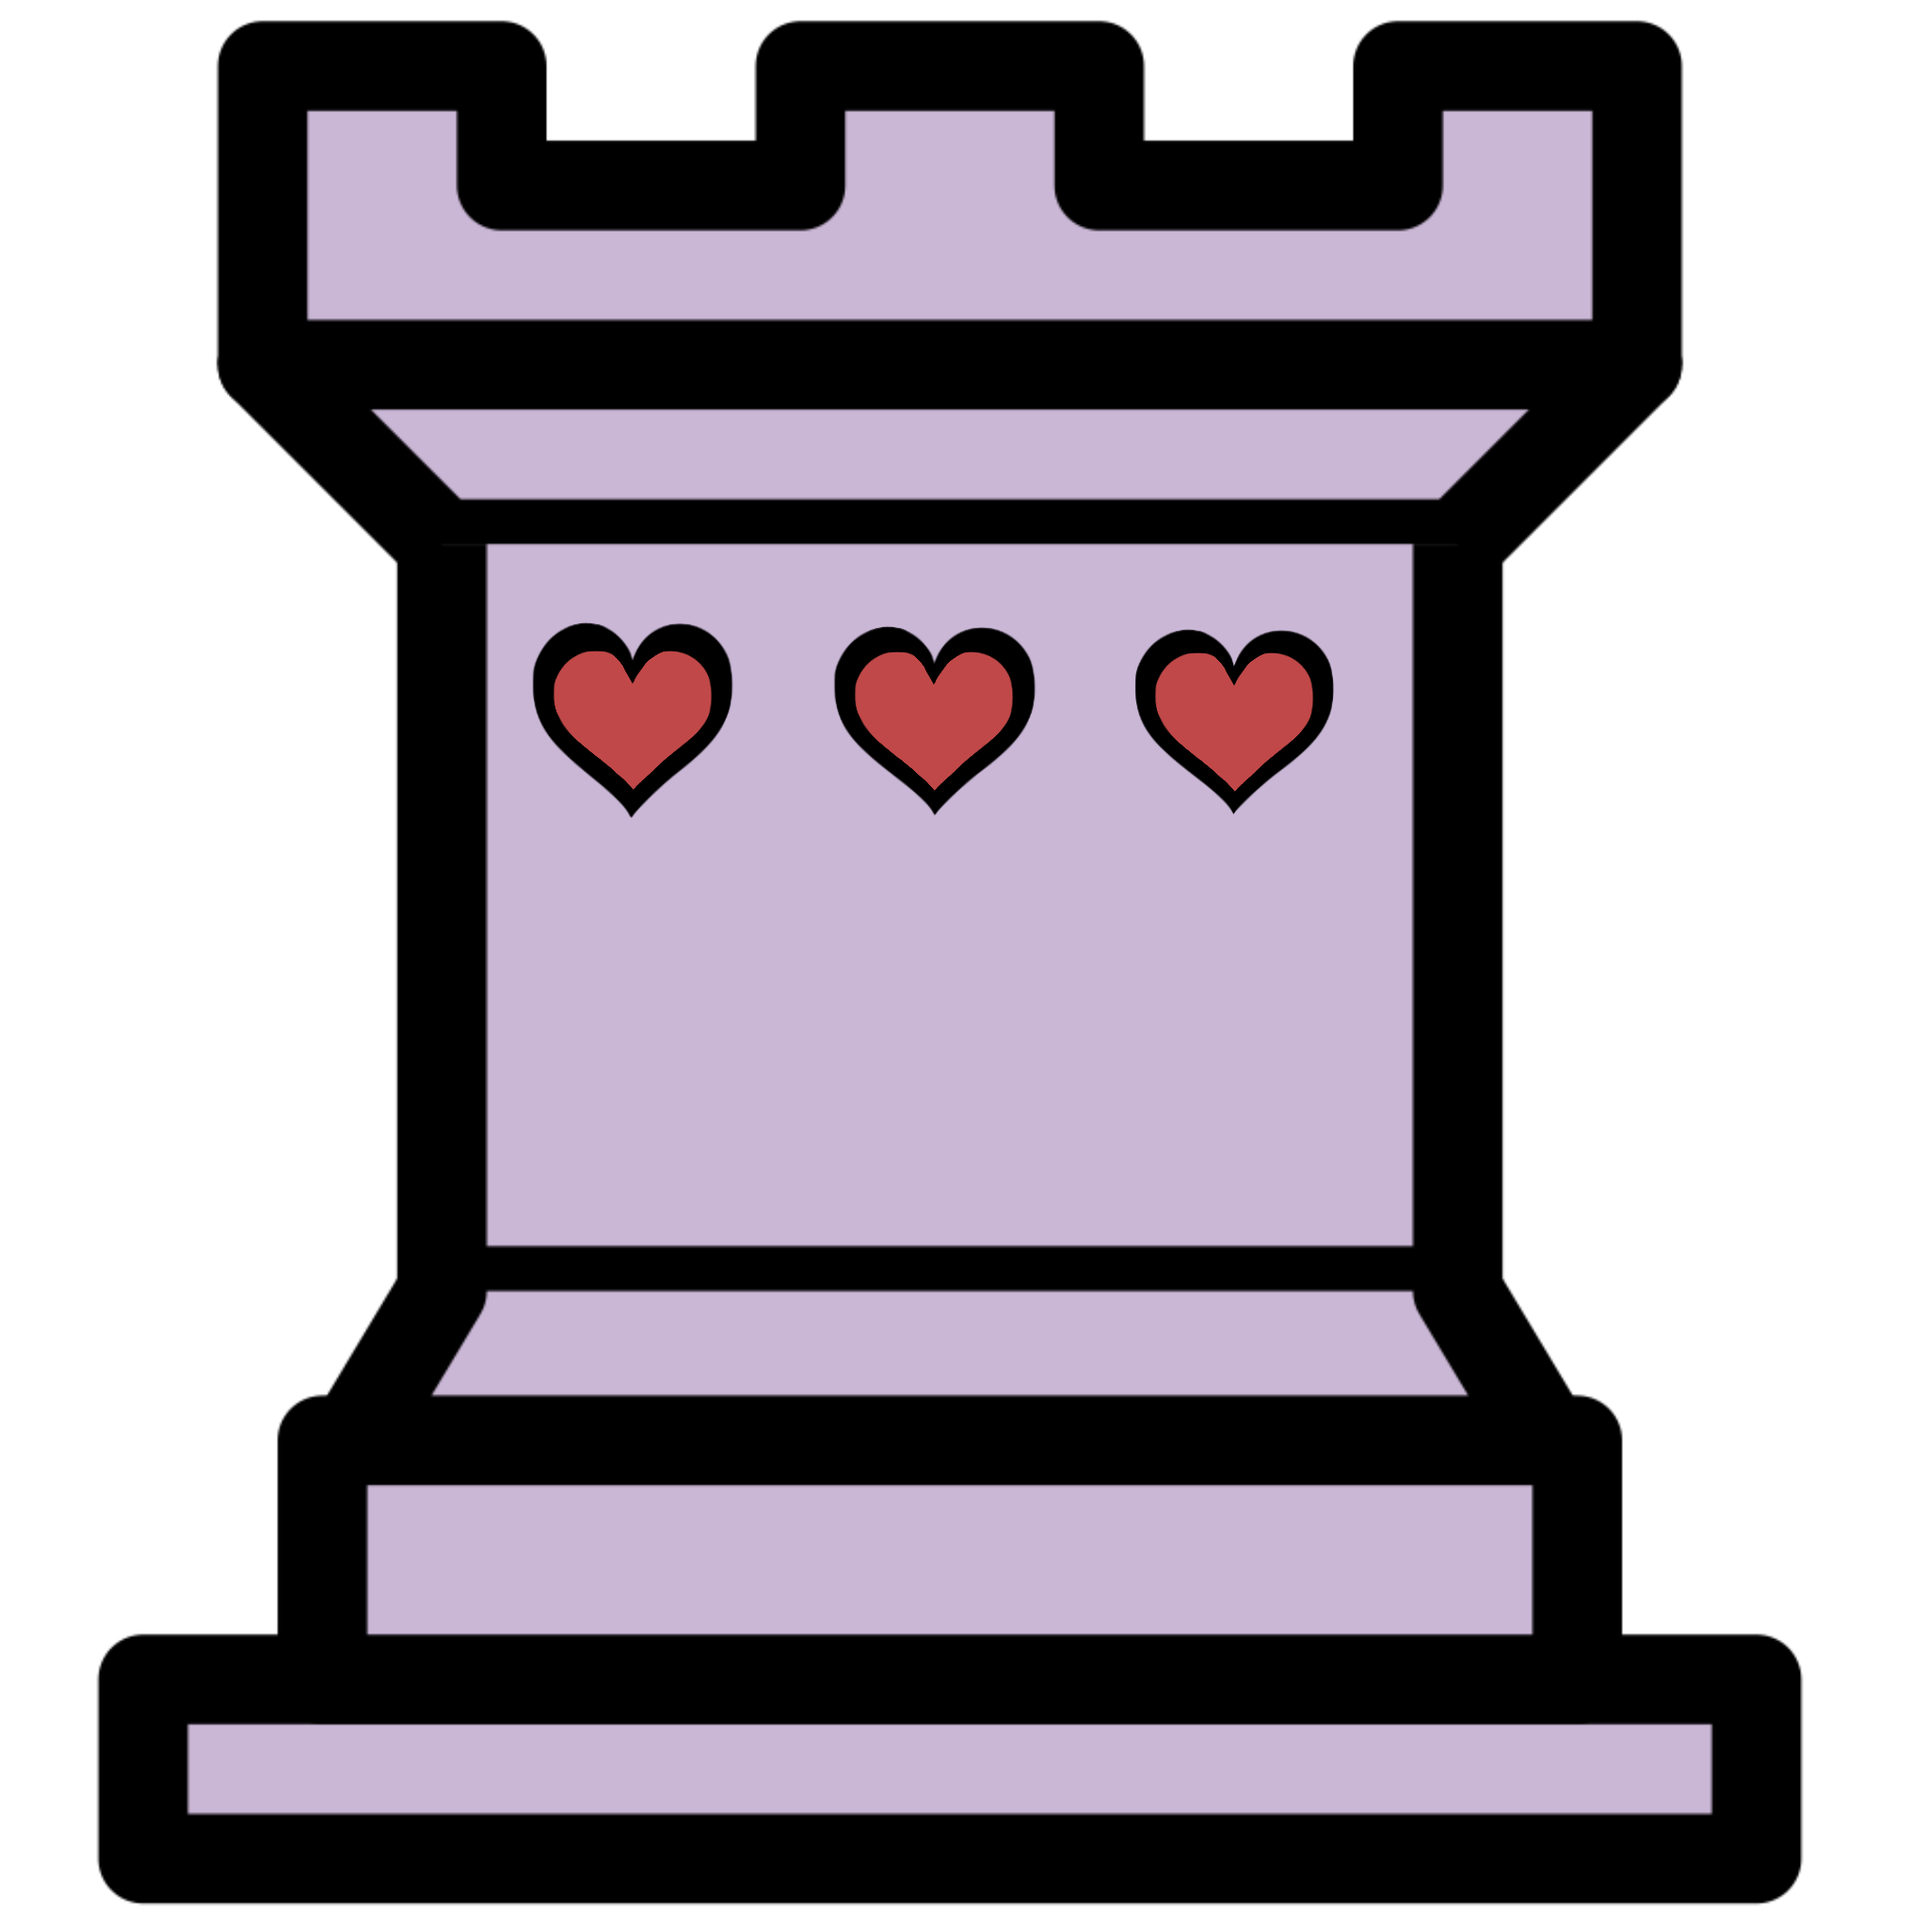
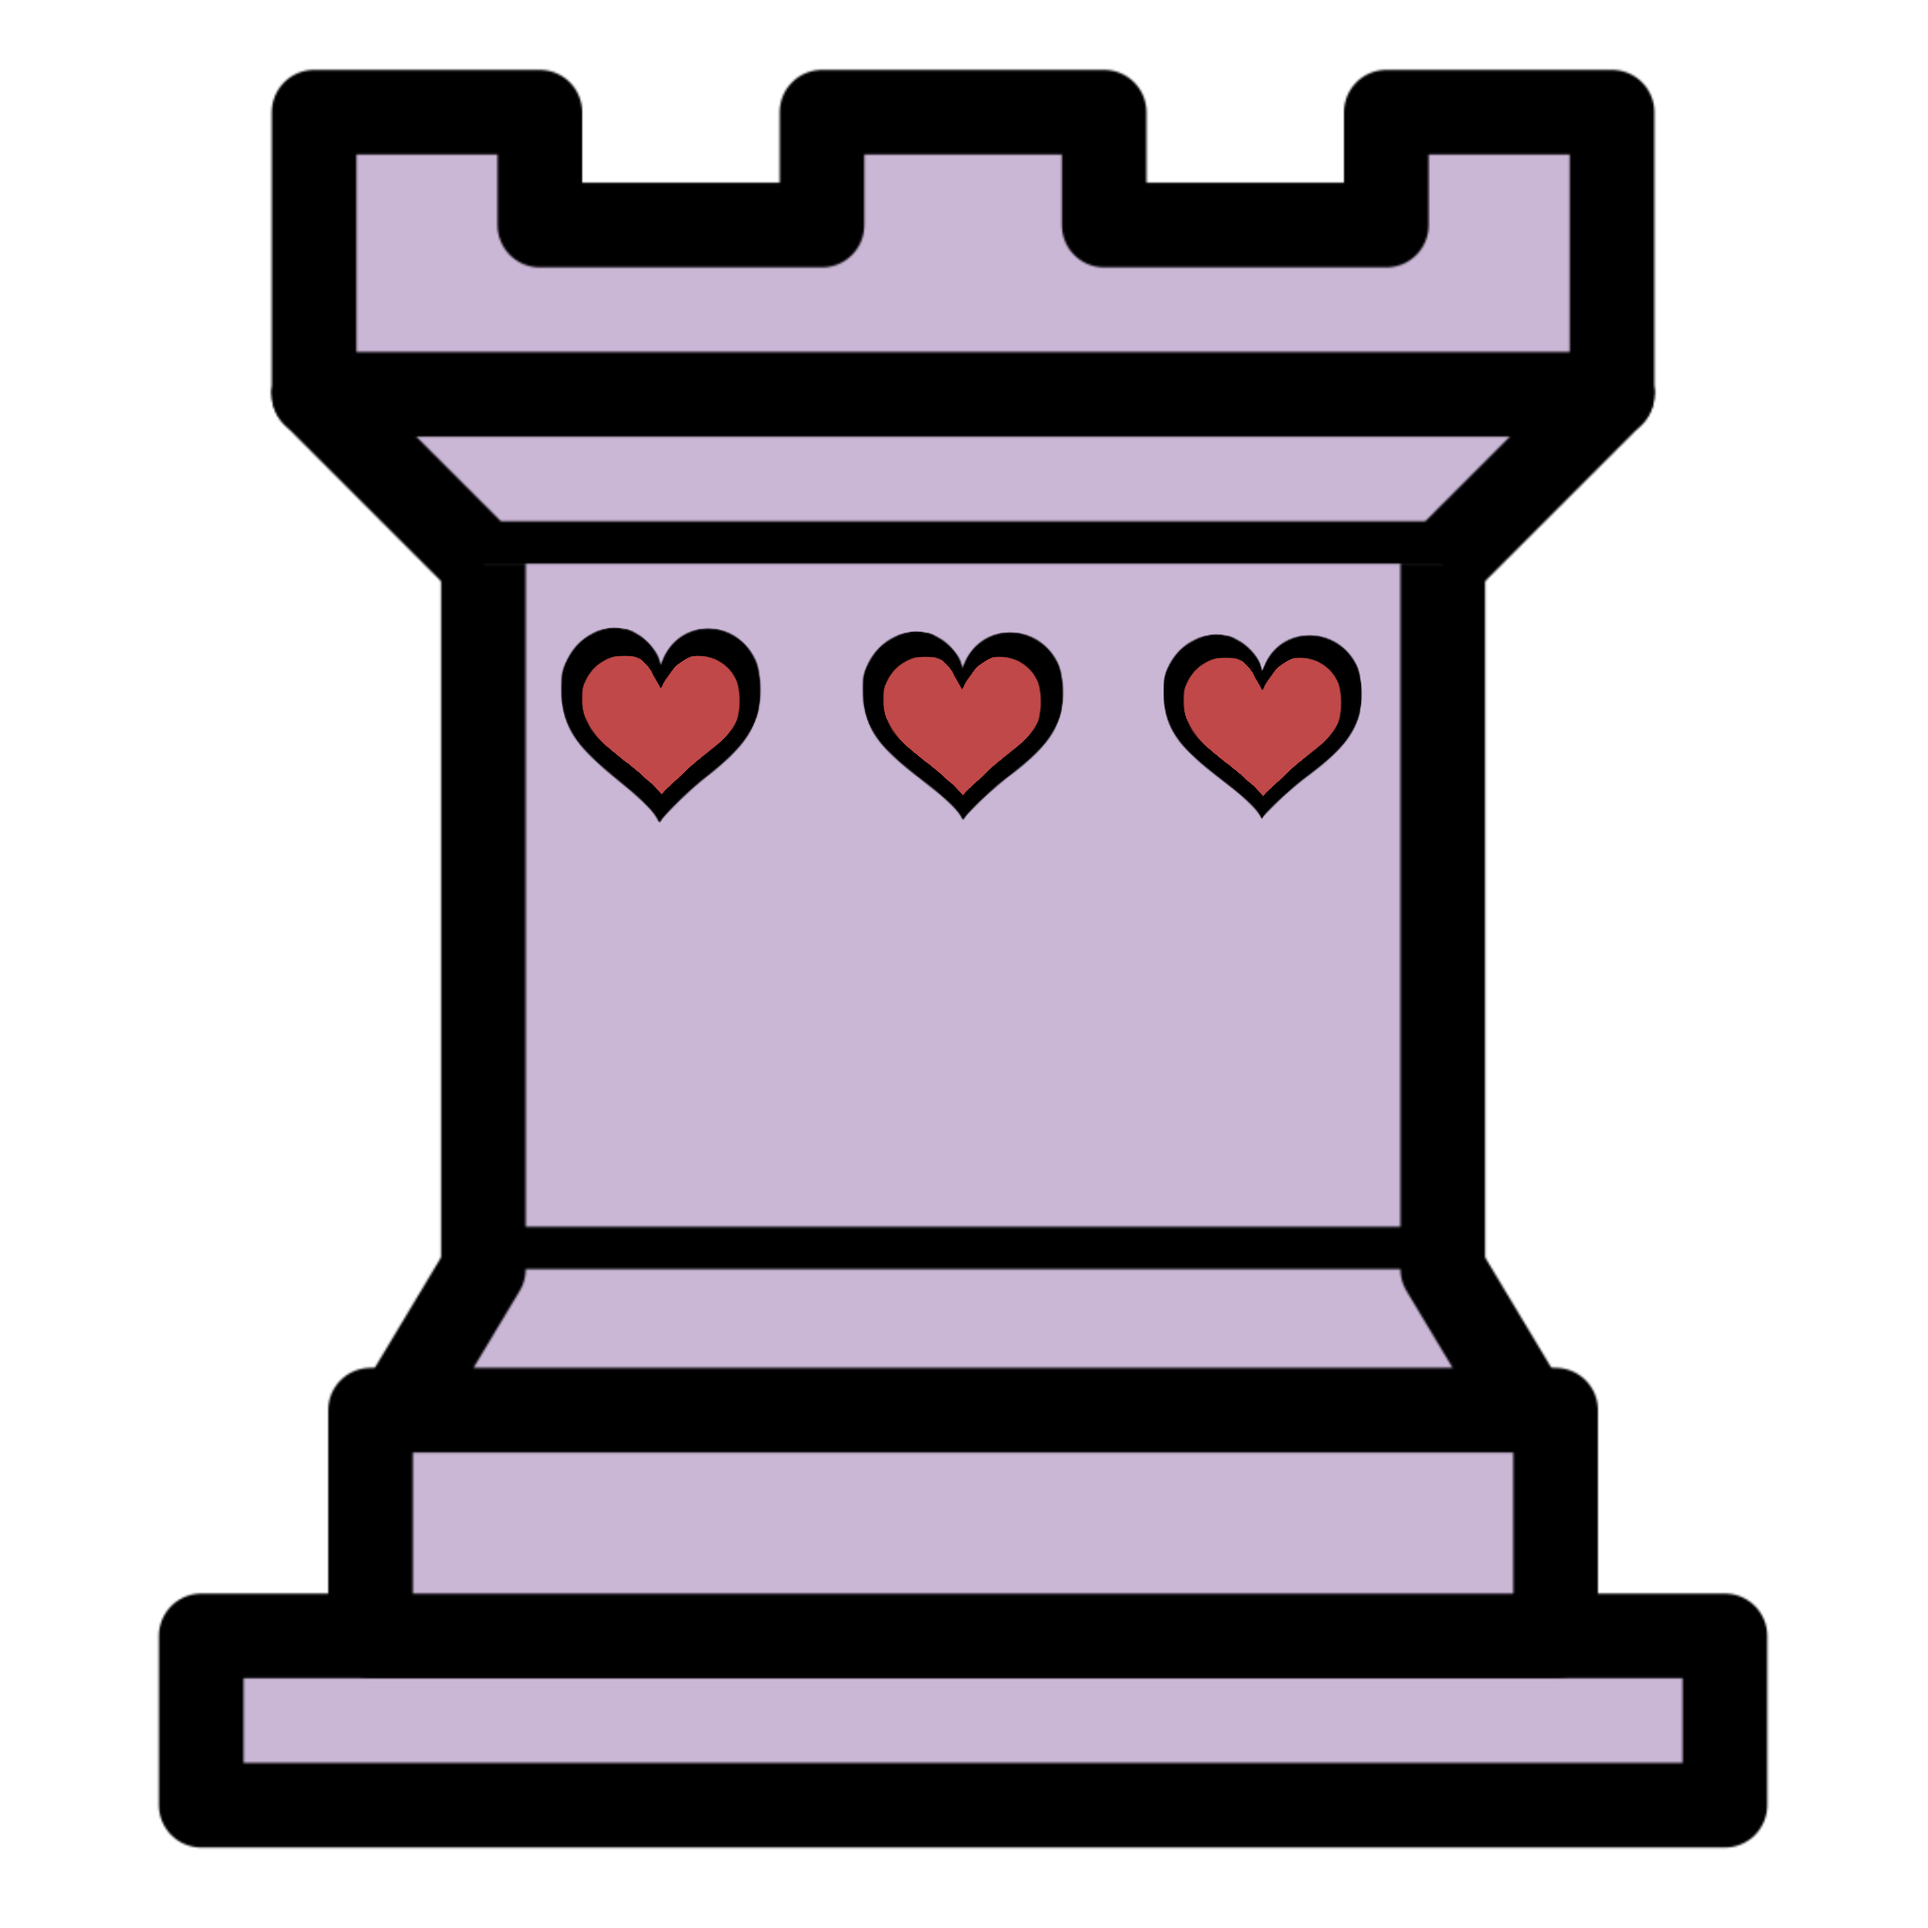
Pawn added

Changed region(s): [[0.0312, 0.0, 0.9375, 1.0], [0.7812, 0.6875, 0.8125, 0.7188]]

diff --git a/Chess Game/Chess/Piece.h b/Chess Game/Chess/Piece.h
@@ -24,6 +24,8 @@ namespace icons {
 	const QString pinkQueenIcon = "./images/Queen_Pink.png";			/*photo by Wikipedia, edited by Irem Yildiz*/
 	const QString lilacKnightIcon = "./images/Knight_Lilac.png";		/*photo by Wikipedia, edited by Irem Yildiz, idea by Berk Yurteri*/
 	const QString pinkKnightIcon = "./images/Knight_Pink.png";			/*photo by Wikipedia, edited by Irem Yildiz, idea by Berk Yurteri*/
+	const QString lilacPawnIcon = "./images/Pawn_Lilac.png";			/*photo by Wikipedia, edited by Irem Yildiz*/
+	const QString pinkPawnIcon = "./images/Pawn_Pink.png";				/*photo by Wikipedia, edited by Irem Yildiz*/
 }
 
 class PieceAbs {
@@ -79,6 +81,13 @@ public:
 class Knight : public PieceAbs {
 public:
 	Knight(Team team, int x, int y);
+	bool isValidMove(int x, int y);
+	std::string getType() override;
+};
+
+class Pawn : public PieceAbs {
+public:
+	Pawn(Team team, int x, int y);
 	bool isValidMove(int x, int y);
 	std::string getType() override;
 };

diff --git a/Chess Game/Chess/ChessCase.cpp b/Chess Game/Chess/ChessCase.cpp
@@ -11,11 +11,10 @@
 
 ChessCase::ChessCase(int newX, int newY, std::shared_ptr<Controller> controller, QWidget* parent): x_(newX), y_(newY), controller_(controller), QPushButton(parent) {
     const QSize BUTTON_SIZE = QSize(lenght_, height_);
-    setIconSize(QSize(lenght_, height_));
+    setIconSize(QSize(iconLenght_, iconHeight_));
     setMinimumSize(BUTTON_SIZE);
     setMaximumSize(BUTTON_SIZE);
     connect(this, SIGNAL(clicked()), this, SLOT(handleButton()));
-    //setText(QString(QString::number(x_)) + "," + (QString::number(y_)));
 }
 
 void ChessCase::setPiece(std::shared_ptr<PieceAbs> piece) {

diff --git a/Chess Game/Chess/Piece.cpp b/Chess Game/Chess/Piece.cpp
@@ -117,3 +117,18 @@ bool Knight::isValidMove(int x, int y) {
 }
 
 std::string Knight::getType() { return "Knight"; }
+
+Pawn::Pawn(Team team, int x, int y) : PieceAbs(team, x, y) {
+	if (team == Team::Lilac) {
+		name_ = "Lilac Pawn";
+		icon_ = lilacPawnIcon;
+	}
+	else {
+		name_ = "Pink Pawn";
+		icon_ = pinkPawnIcon;
+	}
+}
+
+bool Pawn::isValidMove(int x, int y) { return (x == x_ + 1 ) || (x == x_ - 1); }
+
+std::string Pawn::getType() { return "Pawn"; }

diff --git a/Chess Game/Chess/Game.cpp b/Chess Game/Chess/Game.cpp
@@ -27,5 +27,14 @@ std::vector<std::shared_ptr<PieceAbs>> Game::test1() {
 	game.push_back(std::make_unique<Knight>(Team::Lilac, 0, 1));
 	game.push_back(std::make_unique<Knight>(Team::Lilac, 0, 6));
 
+	for (int i = 0; i < 8; i++) {
+		game.push_back(std::make_unique<Pawn>(Team::Lilac, 1, i));
+	}
+
+	for (int i = 0; i < 8; i++) {
+		game.push_back(std::make_unique<Pawn>(Team::Pink, 6, i));
+	}
+	
+
 	return game;
 }

diff --git a/Chess Game/Chess/ChessCase.h b/Chess Game/Chess/ChessCase.h
@@ -37,6 +37,8 @@ private:
 	int y_;
 	const int lenght_ = 90;
 	const int height_ = 90;
+	const int iconLenght_ = lenght_ - 15;
+	const int iconHeight_ = height_ - 15;
 	std::shared_ptr<PieceAbs> piece_ = nullptr;
 	std::shared_ptr<Controller> controller_ = nullptr;
 	QString colour_;
